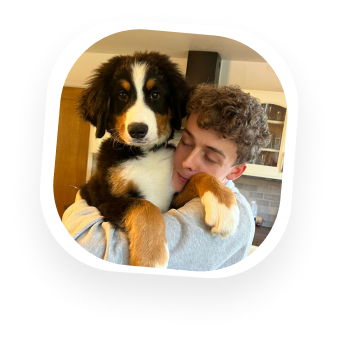
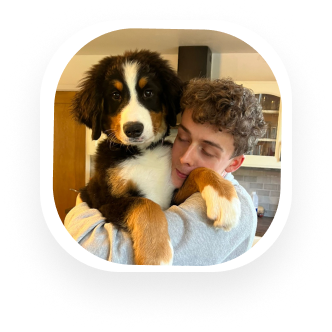
Update hero photo crop and tighten spacing around it
Use the new photo crop and pull the inline photo closer to "Richard" and "is".

Changed region(s): [[0.1506, 0.0602, 0.8735, 0.8133]]

diff --git a/index.html b/index.html
@@ -10,7 +10,7 @@
   <meta http-equiv="Expires" content="0">
   <link rel="icon" href="images/J7o9WgcL34YfyKl3OxSfCbg.png">
   <script src="js/theme-init.js?v=2"></script>
-  <link rel="stylesheet" href="css/styles.css?v=534">
+  <link rel="stylesheet" href="css/styles.css?v=535">
 </head>
 <body data-page="home">
   <nav class="nav" id="site-nav" aria-label="Site navigation"></nav>
@@ -24,7 +24,7 @@
           <div class="hero-title-wrap">
             <h1 class="hero-title hero-title--home">
               <span class="hero-head animate-in">
-                <span class="hero-name">Richard <span class="hero-photo-slot" aria-hidden="true"><img class="hero-photo" src="images/richard-hero.png?v=1" alt=""></span><span class="hero-title-muted">is a</span> designer,<br>storyteller <span class="hero-title-muted">and</span> tea lover.</span>
+                <span class="hero-name">Richard <span class="hero-photo-slot" aria-hidden="true"><img class="hero-photo" src="images/richard-hero.png?v=2" alt=""></span><span class="hero-title-muted">is a</span> designer,<br>storyteller <span class="hero-title-muted">and</span> tea lover.</span>
                 <span class="hero-ref" aria-hidden="true">[1]</span>
               </span>
               <span class="hero-bio animate-in animate-in-delay-1">Drawn to interactive software and building a more equitable future for technology through accessible and intuitive design. Previously designed at SAP and Cashbook.</span>

diff --git a/css/styles.css b/css/styles.css
@@ -1716,6 +1716,7 @@ body[data-page="home"] .home-bottom-ascii.ascii-bg-section {
   align-items: center;
   width: 0;
   height: 1.2em;
+  margin-left: -0.12em;
   overflow: hidden;
   vertical-align: -0.28em;
   white-space: nowrap;
@@ -1753,14 +1754,14 @@ body[data-page="home"] .home-bottom-ascii.ascii-bg-section {
   }
   100% {
     width: var(--hero-photo-w);
-    margin-right: 0.3em;
+    margin-right: 0.14em;
   }
 }
 
 @media (prefers-reduced-motion: reduce) {
   .hero-photo-slot {
     width: var(--hero-photo-w);
-    margin-right: 0.3em;
+    margin-right: 0.14em;
     animation: none;
   }
   .hero-photo {

diff --git a/work/customer-insights.html b/work/customer-insights.html
@@ -9,7 +9,7 @@
   <meta http-equiv="Expires" content="0">
   <link rel="icon" href="../images/J7o9WgcL34YfyKl3OxSfCbg.png">
   <script src="../js/theme-init.js?v=2"></script>
-  <link rel="stylesheet" href="../css/styles.css?v=534">
+  <link rel="stylesheet" href="../css/styles.css?v=535">
 </head>
 <body data-page="project" data-project="customer-insights">
   <nav class="nav" id="site-nav" aria-label="Site navigation"></nav>

diff --git a/work/custom-stickers.html b/work/custom-stickers.html
@@ -9,7 +9,7 @@
   <meta http-equiv="Expires" content="0">
   <link rel="icon" href="../images/J7o9WgcL34YfyKl3OxSfCbg.png">
   <script src="../js/theme-init.js?v=2"></script>
-  <link rel="stylesheet" href="../css/styles.css?v=534">
+  <link rel="stylesheet" href="../css/styles.css?v=535">
 </head>
 <body data-page="project" data-project="custom-stickers">
   <nav class="nav" id="site-nav" aria-label="Site navigation"></nav>

diff --git a/work/developer-tools.html b/work/developer-tools.html
@@ -9,7 +9,7 @@
   <meta http-equiv="Expires" content="0">
   <link rel="icon" href="../images/J7o9WgcL34YfyKl3OxSfCbg.png">
   <script src="../js/theme-init.js?v=2"></script>
-  <link rel="stylesheet" href="../css/styles.css?v=534">
+  <link rel="stylesheet" href="../css/styles.css?v=535">
 </head>
 <body data-page="project" data-project="developer-tools">
   <nav class="nav" id="site-nav" aria-label="Site navigation"></nav>

diff --git a/work/design-systems.html b/work/design-systems.html
@@ -9,7 +9,7 @@
   <meta http-equiv="Expires" content="0">
   <link rel="icon" href="../images/J7o9WgcL34YfyKl3OxSfCbg.png">
   <script src="../js/theme-init.js?v=2"></script>
-  <link rel="stylesheet" href="../css/styles.css?v=534">
+  <link rel="stylesheet" href="../css/styles.css?v=535">
 </head>
 <body data-page="project" data-project="design-systems">
   <nav class="nav" id="site-nav" aria-label="Site navigation"></nav>

diff --git a/work/visualisations.html b/work/visualisations.html
@@ -9,7 +9,7 @@
   <meta http-equiv="Expires" content="0">
   <link rel="icon" href="../images/J7o9WgcL34YfyKl3OxSfCbg.png">
   <script src="../js/theme-init.js?v=2"></script>
-  <link rel="stylesheet" href="../css/styles.css?v=534">
+  <link rel="stylesheet" href="../css/styles.css?v=535">
 </head>
 <body data-page="project" data-project="visualisations">
   <nav class="nav" id="site-nav" aria-label="Site navigation"></nav>

diff --git a/work/invite-flows.html b/work/invite-flows.html
@@ -9,7 +9,7 @@
   <meta http-equiv="Expires" content="0">
   <link rel="icon" href="../images/J7o9WgcL34YfyKl3OxSfCbg.png">
   <script src="../js/theme-init.js?v=2"></script>
-  <link rel="stylesheet" href="../css/styles.css?v=534">
+  <link rel="stylesheet" href="../css/styles.css?v=535">
 </head>
 <body data-page="project" data-project="invite-flows">
   <nav class="nav" id="site-nav" aria-label="Site navigation"></nav>

diff --git a/work/navigation.html b/work/navigation.html
@@ -9,7 +9,7 @@
   <meta http-equiv="Expires" content="0">
   <link rel="icon" href="../images/J7o9WgcL34YfyKl3OxSfCbg.png">
   <script src="../js/theme-init.js?v=2"></script>
-  <link rel="stylesheet" href="../css/styles.css?v=534">
+  <link rel="stylesheet" href="../css/styles.css?v=535">
 </head>
 <body data-page="project" data-project="navigation">
   <nav class="nav" id="site-nav" aria-label="Site navigation"></nav>

diff --git a/work/onboarding.html b/work/onboarding.html
@@ -9,7 +9,7 @@
   <meta http-equiv="Expires" content="0">
   <link rel="icon" href="../images/J7o9WgcL34YfyKl3OxSfCbg.png">
   <script src="../js/theme-init.js?v=2"></script>
-  <link rel="stylesheet" href="../css/styles.css?v=534">
+  <link rel="stylesheet" href="../css/styles.css?v=535">
 </head>
 <body data-page="project" data-project="onboarding">
   <nav class="nav" id="site-nav" aria-label="Site navigation"></nav>

diff --git a/work/ask-ai.html b/work/ask-ai.html
@@ -9,7 +9,7 @@
   <meta http-equiv="Expires" content="0">
   <link rel="icon" href="../images/J7o9WgcL34YfyKl3OxSfCbg.png">
   <script src="../js/theme-init.js?v=2"></script>
-  <link rel="stylesheet" href="../css/styles.css?v=534">
+  <link rel="stylesheet" href="../css/styles.css?v=535">
 </head>
 <body data-page="project" data-project="ask-ai">
   <nav class="nav" id="site-nav" aria-label="Site navigation"></nav>

diff --git a/customer-insights/index.html b/customer-insights/index.html
@@ -11,7 +11,7 @@
   <link rel="icon" href="/images/J7o9WgcL34YfyKl3OxSfCbg.png">
   <base href="/">
   <script src="/js/theme-init.js?v=2"></script>
-  <link rel="stylesheet" href="/css/styles.css?v=534">
+  <link rel="stylesheet" href="/css/styles.css?v=535">
 </head>
 <body data-page="project" data-project="customer-insights">
   <div class="top-blur" aria-hidden="true"></div>
